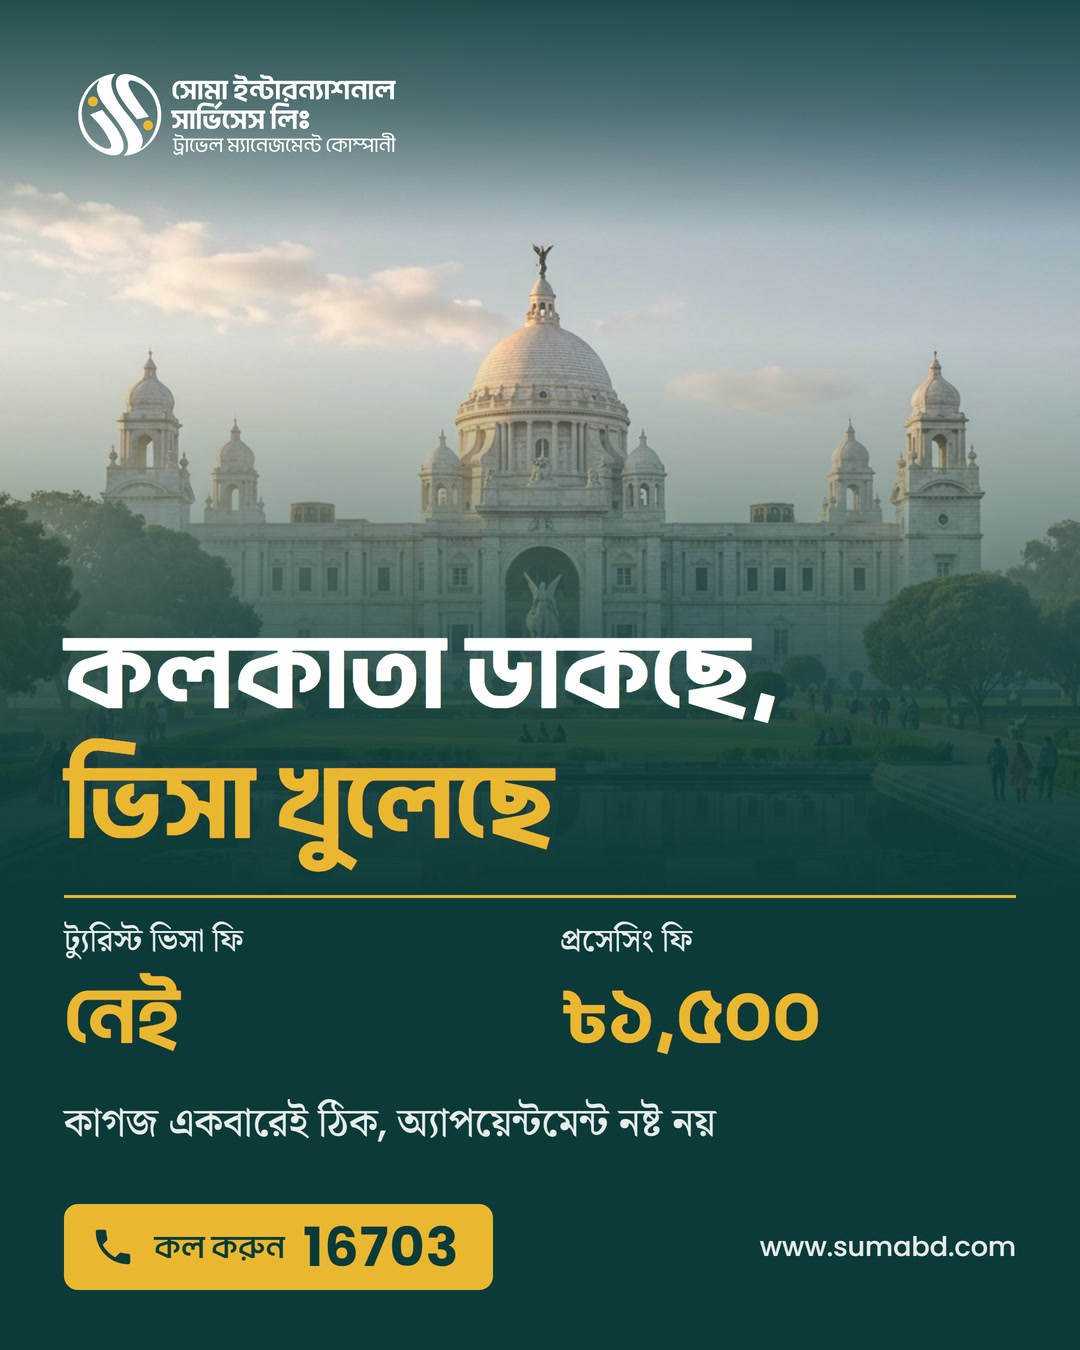
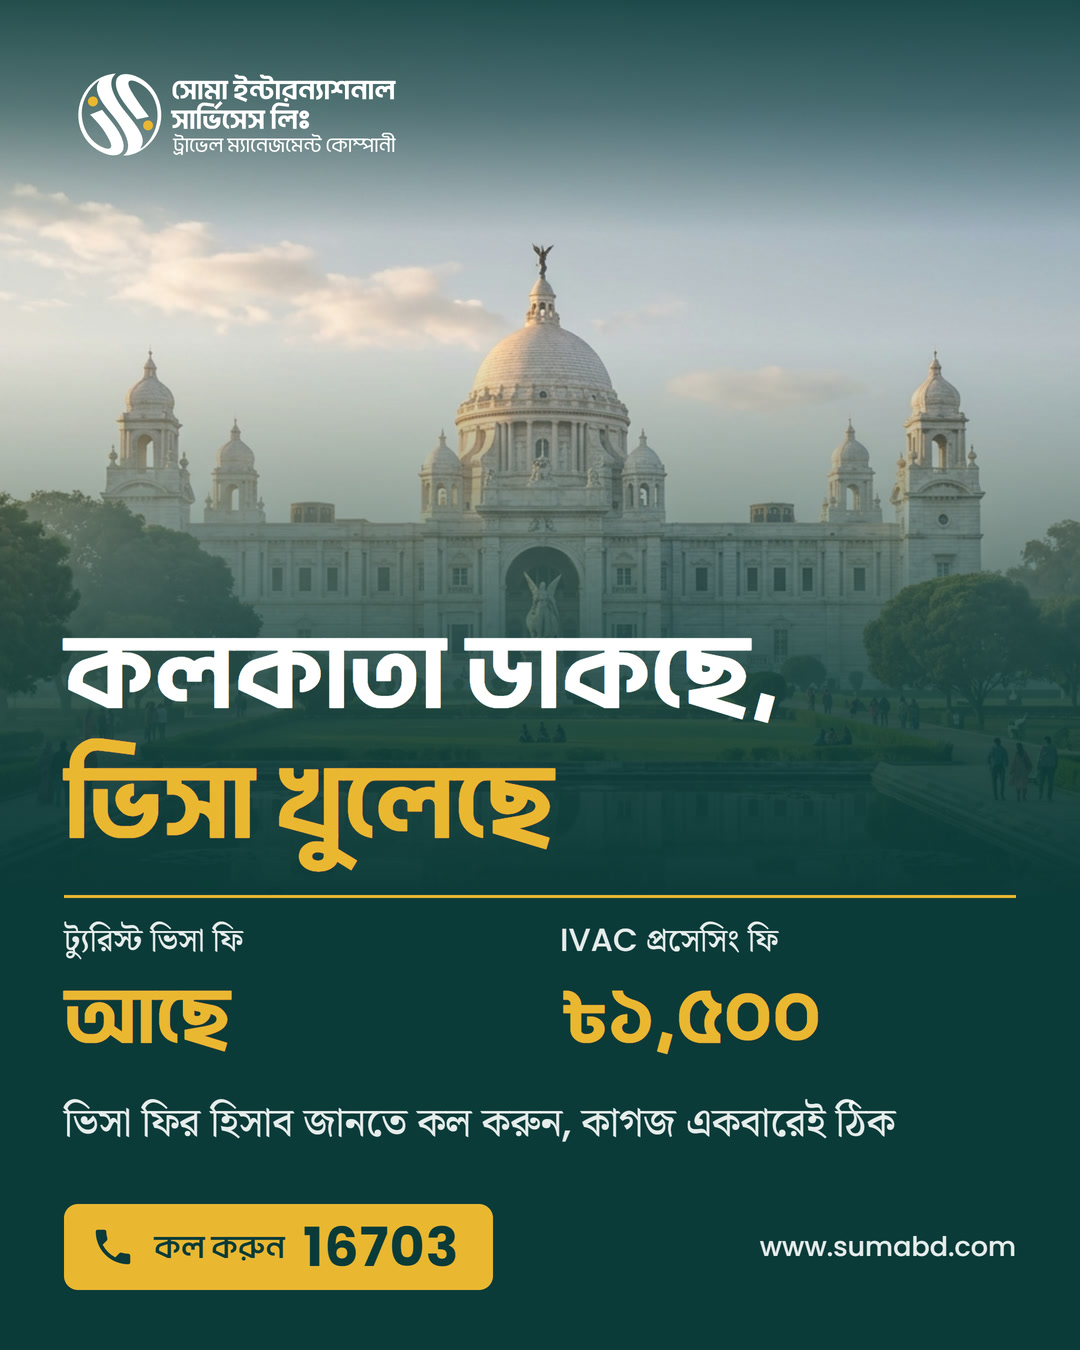
Correct India visa fee wording on 3 Nov post

Changed region(s): [[0.0611, 0.8089, 0.825, 0.84], [0.0611, 0.7156, 0.2139, 0.7778], [0.5194, 0.6844, 0.7333, 0.7156]]

diff --git a/index.html b/index.html
@@ -161,7 +161,7 @@ footer{margin-top:40px;padding-top:24px;border-top:1px solid var(--line);text-al
   <a class="tab" href="#d1201"><svg viewBox="0 0 16 16" fill="none" stroke="currentColor" stroke-width="1.6"><path d="M5 4h9M5 8h9M5 12h9M2 4h.01M2 8h.01M2 12h.01"/></svg><span>December</span></a>
  </nav>
  <span class="sp"></span>
- <span class="live"><i></i>Updated 3 Nov</span>
+ <span class="live"><i></i>Updated 4 Nov</span>
 </div></header>
 
 <main class="wrap" id="top">
@@ -274,11 +274,11 @@ footer{margin-top:40px;padding-top:24px;border-top:1px solid var(--line);text-al
 </section>
 <section class="day" data-date="2026-11-03" id="d1103">
   <div class="dh"><b>Tuesday</b> <i>3 Nov</i><span class="dn">2/2 made</span></div>
-  <article class="rec done sis" data-st="done" data-brand="SIS" data-tag="" data-fmt="static" data-q="ভারতের ট্যুরিস্ট ভিসা আবার চালু india is giving tourist visas to bangladeshis again. no visa fee, only tk 1,500 processing fee. send us your papers, we check them before you apply. photo post suma international services ltd. made  ">
+  <article class="rec done sis" data-st="done" data-brand="SIS" data-tag="" data-fmt="static" data-q="ভারতের ট্যুরিস্ট ভিসা আবার চালু india is giving tourist visas to bangladeshis again. visa fee applies, plus a tk 1,500 ivac processing fee (call for the current visa fee). send us your papers, we check them before you apply. photo post suma international services ltd. made  ">
   <div class="bd">
     <div class="tags"><span class="tg st-done">Made</span><span class="tg sis"><svg viewBox="0 0 16 16" fill="none" stroke="currentColor" stroke-width="1.6"><circle cx="6" cy="5.5" r="2.2"/><path d="M2 13c.6-2.4 2.2-3.6 4-3.6s3.4 1.2 4 3.6"/><circle cx="11.5" cy="6" r="1.7"/><path d="M11 9.6c1.5 0 2.6.9 3 2.6"/></svg>Suma International Services Ltd.</span><span class="tg">Photo post</span><span class="tg boost">Boost Tk 1,000</span></div>
     <div class="wt" lang="bn">ভারতের ট্যুরিস্ট ভিসা আবার চালু</div>
-    <div class="oc">India is giving tourist visas to Bangladeshis again. No visa fee, only Tk 1,500 processing fee. Send us your papers, we check them before you apply.</div>
+    <div class="oc">India is giving tourist visas to Bangladeshis again. Visa fee applies, plus a Tk 1,500 IVAC processing fee (call for the current visa fee). Send us your papers, we check them before you apply.</div>
     
     <div class="who">Posts at <b>8:30 PM</b> · Tue 3 Nov</div>
     <div class="who">Files: <a href="media/2026-11-03_Suma_Photo_01.jpg" target="_blank">image</a></div>
